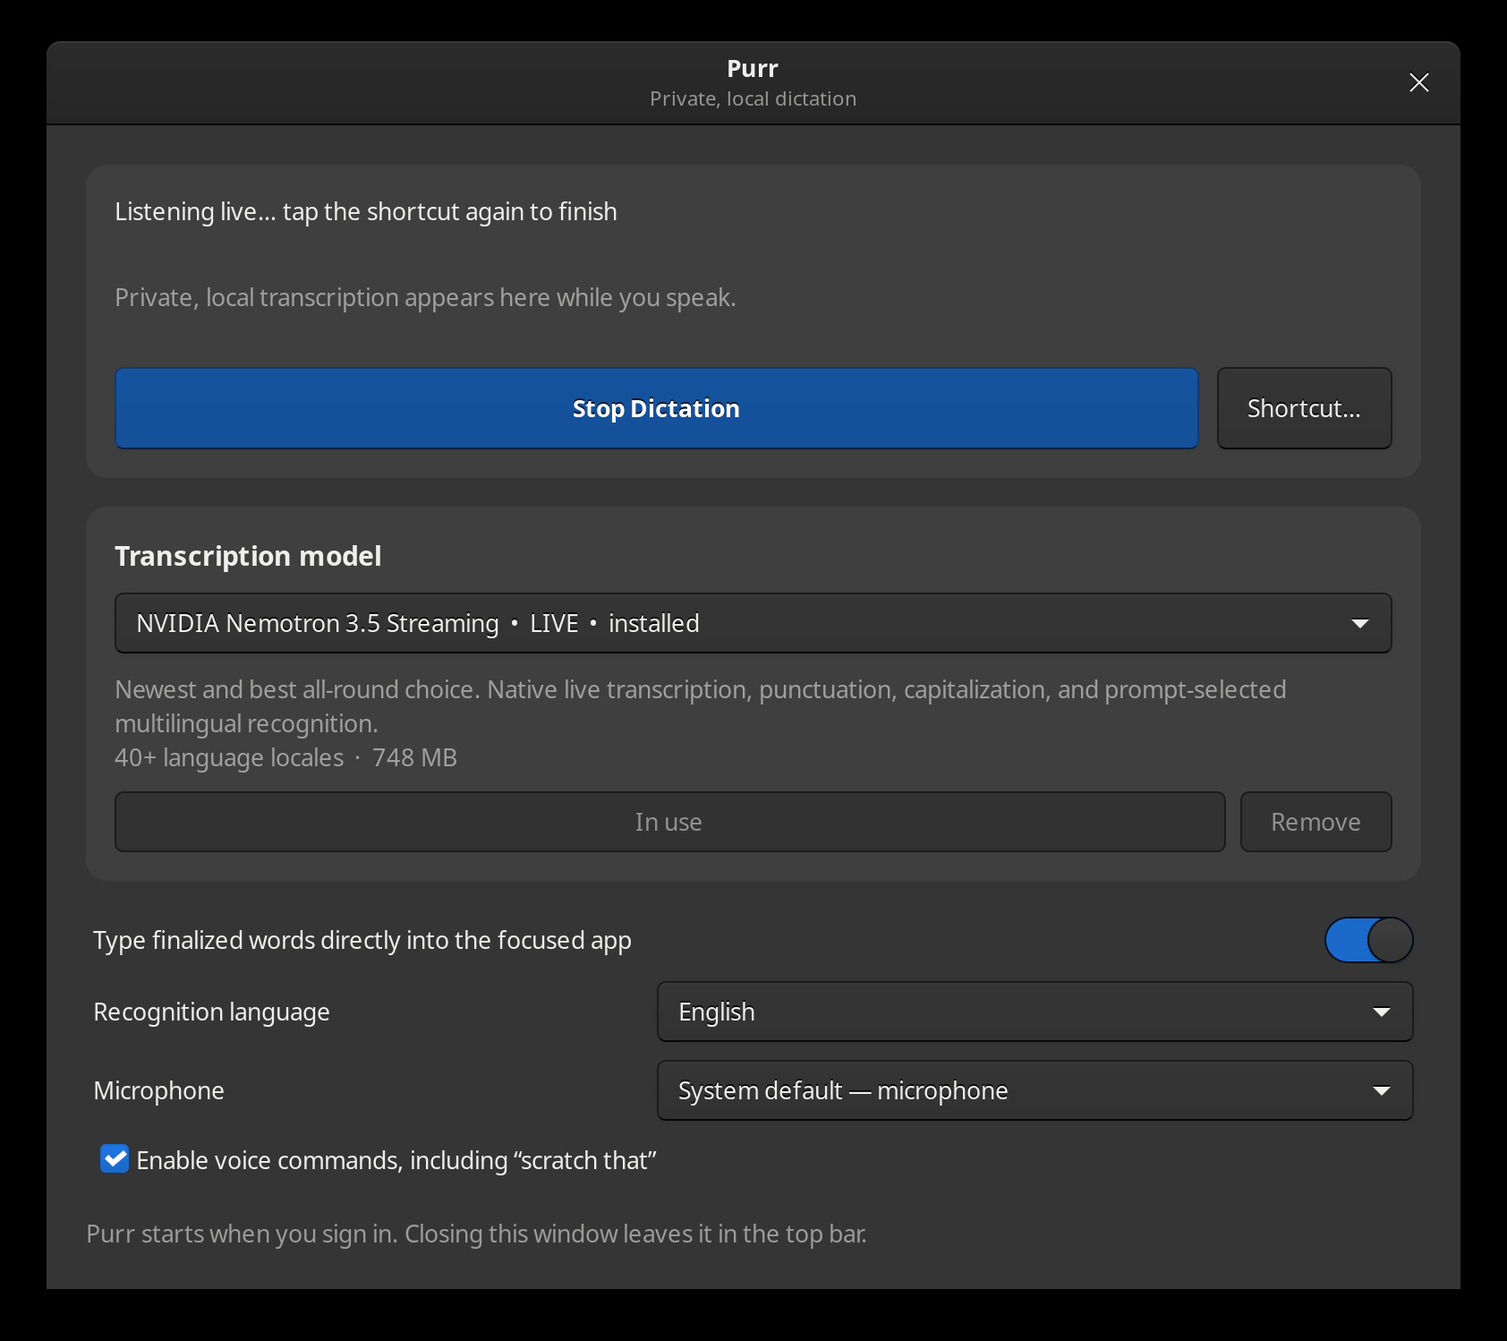
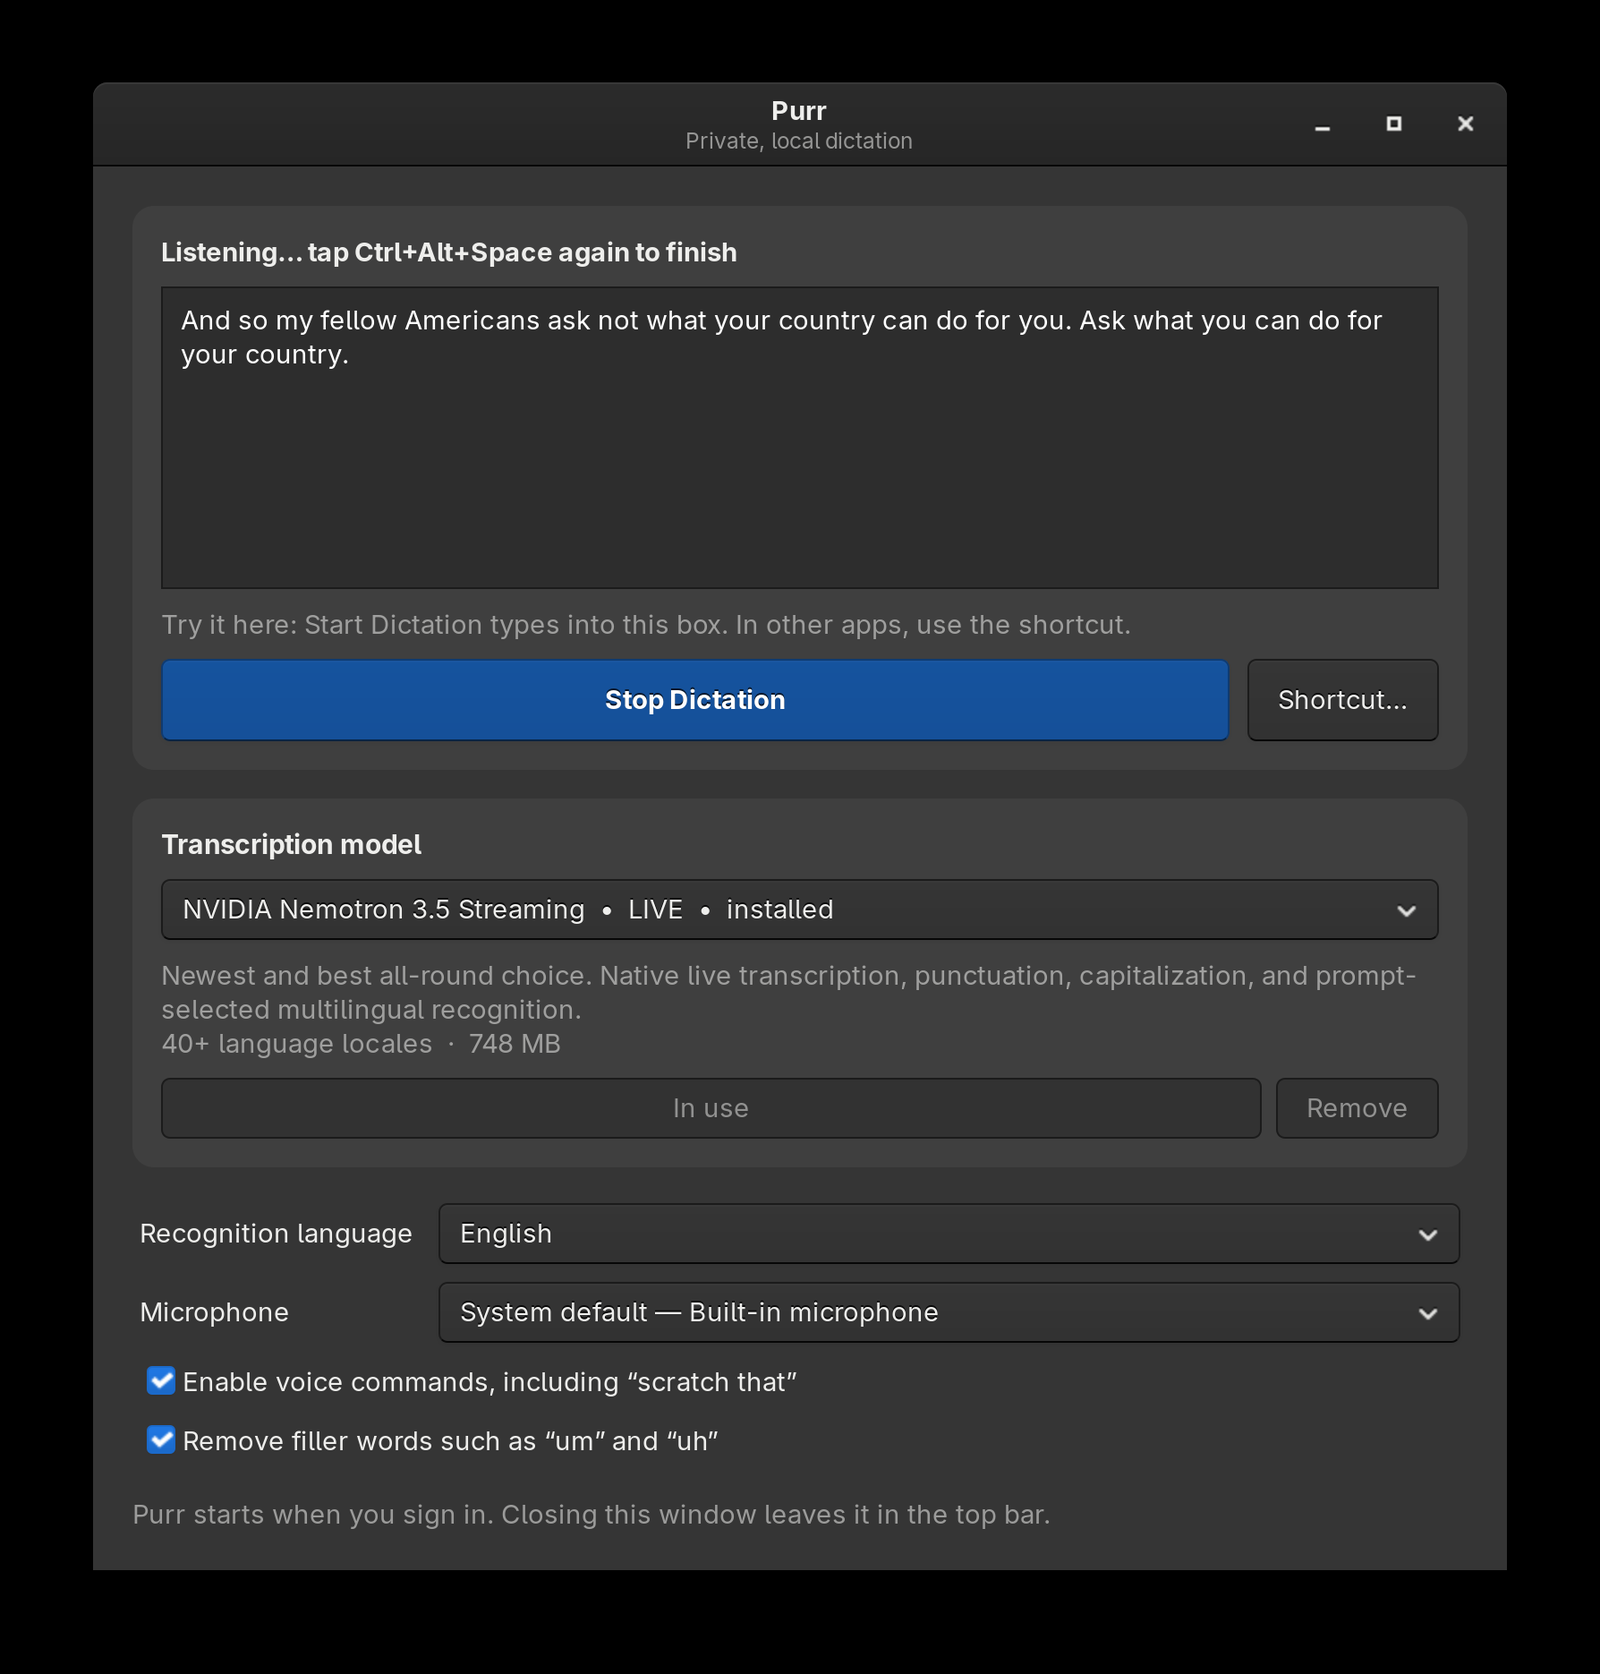
Add a practice box, filler toggle, and resilient microphone choice
Pass 2 of the Linux polish program.

- The window gets a practice text box. Start Dictation in the window types
  into it, and the buttons no longer take focus, so a dictated space or
  Enter can no longer press Stop Dictation.
- "No speech detected", "Too short", and "Removed <model>" are passing
  remarks that return to Ready instead of lingering as the status.
- Filler-word removal is a visible switch next to voice commands.
- The microphone list refreshes every time the window opens. An unplugged
  choice stays selected by its friendly name, marked "not connected",
  while recording falls back to the system default.
- Long device names ellipsize instead of widening the window.
- Screenshots re-rendered from the current window.

diff --git a/linux/purr_linux.py b/linux/purr_linux.py
@@ -27,7 +27,7 @@ import gi
 gi.require_version("Gtk", "3.0")
 gi.require_version("AyatanaAppIndicator3", "0.1")
 from gi.repository import AyatanaAppIndicator3 as AppIndicator
-from gi.repository import Gdk, Gio, GLib, Gtk
+from gi.repository import Gdk, Gio, GLib, Gtk, Pango
 
 from purr_models import (
     DEFAULT_MODEL_ID,
@@ -495,9 +495,10 @@ class PurrApplication(Gtk.Application):
         self.shortcut_guard = 0
         self.shortcut_pressed_at = 0.0
         self.window = self.overlay = None
-        self.status_label = self.last_label = self.overlay_label = None
+        self.status_label = self.practice = self.overlay_label = None
         self.record_button = self.model_combo = self.model_action = None
         self.microphone_combo = None
+        self.microphone_labels: dict[str, str] = {}
         self.model_remove = self.model_description = self.download_progress = None
         self.indicator = self.indicator_status = self.indicator_model = None
         self.indicator_dictate = None
@@ -529,9 +530,7 @@ class PurrApplication(Gtk.Application):
             # mapped Wayland toplevel takes focus away from the dictation target.
             self.background = False
             return
-        if not self.window:
-            self._build_window()
-        self.window.present()
+        self._show_window()
 
     @staticmethod
     def _install_css() -> None:
@@ -542,6 +541,7 @@ class PurrApplication(Gtk.Application):
             .purr-live label { color: white; font-size: 17px; }
             .purr-record { padding: 10px 22px; font-weight: bold; }
             .purr-model-title { font-weight: bold; font-size: 15px; }
+            .purr-status { font-weight: bold; }
         """)
         Gtk.StyleContext.add_provider_for_screen(
             Gdk.Screen.get_default(), provider, Gtk.STYLE_PROVIDER_PRIORITY_APPLICATION
@@ -594,21 +594,34 @@ class PurrApplication(Gtk.Application):
         # the current status instead of a stale placeholder.
         self.status_label = Gtk.Label(label=self.status_text, xalign=0)
         self.status_label.set_line_wrap(True)
+        self.status_label.get_style_context().add_class("purr-status")
         status_card.pack_start(self.status_label, False, False, 0)
-        self.last_label = Gtk.Label(
-            label="Your live transcript will appear here while you speak.", xalign=0
+        # Dictation started from this window types here. A real text field
+        # gives the typed keys a home and keeps focus off the buttons, where a
+        # typed space or Enter would press them.
+        self.practice = Gtk.TextView(
+            wrap_mode=Gtk.WrapMode.WORD_CHAR, left_margin=10, right_margin=10,
+            top_margin=8, bottom_margin=8,
         )
-        self.last_label.set_line_wrap(True)
-        self.last_label.set_selectable(True)
-        self.last_label.get_style_context().add_class("dim-label")
-        status_card.pack_start(self.last_label, True, True, 0)
+        practice_scroll = Gtk.ScrolledWindow(min_content_height=110)
+        practice_scroll.set_shadow_type(Gtk.ShadowType.IN)
+        practice_scroll.add(self.practice)
+        status_card.pack_start(practice_scroll, True, True, 0)
+        hint = Gtk.Label(
+            label="Try it here: Start Dictation types into this box. "
+            "In other apps, use the shortcut.",
+            xalign=0,
+        )
+        hint.set_line_wrap(True)
+        hint.get_style_context().add_class("dim-label")
+        status_card.pack_start(hint, False, False, 0)
         buttons = Gtk.Box(spacing=10)
-        self.record_button = Gtk.Button(label="Start Dictation")
+        self.record_button = Gtk.Button(label="Start Dictation", focus_on_click=False)
         self.record_button.get_style_context().add_class("suggested-action")
         self.record_button.get_style_context().add_class("purr-record")
-        self.record_button.connect("clicked", self._toggle_recording)
+        self.record_button.connect("clicked", self._record_button_clicked)
         buttons.pack_start(self.record_button, True, True, 0)
-        shortcut_button = Gtk.Button(label="Shortcut…")
+        shortcut_button = Gtk.Button(label="Shortcut…", focus_on_click=False)
         shortcut_button.connect(
             "clicked", lambda _button: self.shortcuts and self.shortcuts.configure()
         )
@@ -655,33 +668,26 @@ class PurrApplication(Gtk.Application):
             language.append(code, name)
         language.set_active_id(str(self.config.get("language", "en")))
         language.connect("changed", self._language_changed)
+        language.set_hexpand(True)
         options.attach(language, 1, 0, 1, 1)
         microphone_label = Gtk.Label(label="Microphone", xalign=0)
         options.attach(microphone_label, 0, 1, 1, 1)
         self.microphone_combo = Gtk.ComboBoxText()
-        microphones = list_microphones()
-        try:
-            current_default = subprocess.run(
-                ["pactl", "get-default-source"], capture_output=True, text=True,
-                timeout=2, check=True,
-            ).stdout.strip()
-        except Exception:
-            current_default = ""
-        default_label = next(
-            (label for name, label in microphones if name == current_default), "system choice"
-        )
-        self.microphone_combo.append("default", f"System default — {default_label}")
-        for name, label in microphones:
-            self.microphone_combo.append(name, label)
-        selected_microphone = str(self.config.get("microphone", "default"))
-        if not self.microphone_combo.set_active_id(selected_microphone):
-            self.microphone_combo.set_active_id("default")
+        for cell in self.microphone_combo.get_cells():
+            # Long device names must not widen the whole window.
+            cell.set_property("ellipsize", Pango.EllipsizeMode.END)
         self.microphone_combo.connect("changed", self._microphone_changed)
+        self._populate_microphones()
+        self.microphone_combo.set_hexpand(True)
         options.attach(self.microphone_combo, 1, 1, 1, 1)
         commands = Gtk.CheckButton(label='Enable voice commands, including “scratch that”')
         commands.set_active(bool(self.config.get("voice_commands", True)))
         commands.connect("toggled", self._commands_changed)
         options.attach(commands, 0, 2, 2, 1)
+        fillers = Gtk.CheckButton(label="Remove filler words such as “um” and “uh”")
+        fillers.set_active(bool(self.config.get("trim_fillers", True)))
+        fillers.connect("toggled", self._fillers_changed)
+        options.attach(fillers, 0, 3, 2, 1)
         outer.pack_start(options, False, False, 0)
 
         note = Gtk.Label(
@@ -693,8 +699,46 @@ class PurrApplication(Gtk.Application):
         self.window.add(outer)
         self.window.show_all()
         self.download_progress.hide()
+        self.practice.grab_focus()
         self._sync_record_controls()
         self._refresh_model_ui()
+
+    def _populate_microphones(self) -> None:
+        """(Re)list sources, so devices plugged in since the last look appear."""
+        combo = self.microphone_combo
+        microphones = list_microphones()
+        try:
+            current_default = subprocess.run(
+                ["pactl", "get-default-source"], capture_output=True, text=True,
+                timeout=2, check=True,
+            ).stdout.strip()
+        except Exception:
+            current_default = ""
+        default_label = next(
+            (label for name, label in microphones if name == current_default), "system choice"
+        )
+        selected = str(self.config.get("microphone", "default"))
+        self.microphone_labels = dict(microphones)
+        label = self.microphone_labels.get(selected)
+        if label and label != self.config.get("microphone_label"):
+            # Keep the remembered name current, so an unplugged choice is shown by name.
+            self.config["microphone_label"] = label
+            save_config(self.config)
+        # Repopulating emits "changed"; it must not rewrite the saved choice.
+        combo.handler_block_by_func(self._microphone_changed)
+        try:
+            combo.remove_all()
+            combo.append("default", f"System default — {default_label}")
+            for name, label in microphones:
+                combo.append(name, label)
+            if selected != "default" and selected not in {name for name, _ in microphones}:
+                # Keep an unplugged choice visible instead of silently replacing it;
+                # recording falls back to the system default until it returns.
+                label = str(self.config.get("microphone_label") or "Selected microphone")
+                combo.append(selected, f"{label} (not connected)")
+            combo.set_active_id(selected)
+        finally:
+            combo.handler_unblock_by_func(self._microphone_changed)
 
     def _build_overlay(self) -> None:
         self.overlay = Gtk.Window(type=Gtk.WindowType.TOPLEVEL)
@@ -739,7 +783,17 @@ class PurrApplication(Gtk.Application):
     def _show_window(self) -> None:
         if not self.window:
             self._build_window()
+        else:
+            self._populate_microphones()
         self.window.present()
+
+    def _record_button_clicked(self, _button) -> None:
+        if not self.recorder and self.practice:
+            # Dictation started here types into the practice area.
+            self.practice.grab_focus()
+            buffer = self.practice.get_buffer()
+            buffer.place_cursor(buffer.get_end_iter())
+        self._toggle_recording(None)
 
     def _toggle_recording(self, _button) -> None:
         self.stop_recording() if self.recorder else self.start_recording()
@@ -782,6 +836,17 @@ class PurrApplication(Gtk.Application):
             icon = "dialog-error-symbolic" if error else "audio-input-microphone-symbolic"
             self.indicator.set_icon_full(icon, text)
         return False
+
+    def _flash_status(self, text: str, milliseconds: int = 4000) -> None:
+        """Show a passing remark, then return to Ready unless something else happened."""
+        self._set_status(text)
+
+        def restore():
+            if self.status_text == text and self.ready and not self.busy and not self.recorder:
+                self._show_ready()
+            return False
+
+        GLib.timeout_add(milliseconds, restore)
 
     def _sync_record_controls(self) -> None:
         label = "Stop Dictation" if self.recorder else "Start Dictation"
@@ -1009,8 +1074,6 @@ class PurrApplication(Gtk.Application):
         preview = transcript_preview(text) or ("End of utterance…" if eou else "Listening…")
         if self.overlay_label:
             self.overlay_label.set_text(preview)
-        if self.last_label:
-            self.last_label.set_text(transcript_preview(text) or "Listening…")
         if not self.shortcut_down:
             self._apply_stream_typing(text, drop_previous)
         return False
@@ -1066,8 +1129,6 @@ class PurrApplication(Gtk.Application):
         if text and self.keyboard and not text.endswith("\n"):
             self.keyboard.type_text(" ")
         self._complete("", 0, None)
-        if self.last_label and text:
-            self.last_label.set_text(transcript_preview(text))
         GLib.timeout_add(700, self._hide_overlay)
         return False
 
@@ -1108,8 +1169,10 @@ class PurrApplication(Gtk.Application):
         self._sync_record_controls()
         if message:
             self._hide_overlay()
-            self._set_status(message, message.startswith(("No microphone", "Transcription", "Could not")))
-            if message not in ("No speech detected", "Too short — speak for a moment before stopping"):
+            if message in ("No speech detected", "Too short — speak for a moment before stopping"):
+                self._flash_status(message)
+            else:
+                self._set_status(message, message.startswith(("No microphone", "Transcription", "Could not")))
                 self._notify("Purr dictation failed", message)
             return False
         if drop_previous and self.keyboard:
@@ -1118,8 +1181,6 @@ class PurrApplication(Gtk.Application):
             insertion = text if text.endswith(("\n", "\t", " ")) else text + " "
             if self.keyboard:
                 self.keyboard.type_text(insertion)
-            if self.last_label:
-                self.last_label.set_text(transcript_preview(text))
         self._show_ready()
         return False
 
@@ -1232,7 +1293,7 @@ class PurrApplication(Gtk.Application):
         selected = self._selected_model()
         try:
             self.store.remove(selected)
-            self._set_status(f"Removed {selected.name}")
+            self._flash_status(f"Removed {selected.name}")
         except Exception as error:
             self._set_status(str(error), True)
         self._populate_model_combo(selected.id)
@@ -1244,9 +1305,18 @@ class PurrApplication(Gtk.Application):
             save_config(self.config)
 
     def _microphone_changed(self, combo) -> None:
-        if combo.get_active_id():
-            self.config["microphone"] = combo.get_active_id()
+        selected = combo.get_active_id()
+        if selected:
+            self.config["microphone"] = selected
+            # Remembered so an unplugged choice can still be shown by name. The
+            # "(not connected)" entry itself is not a name worth remembering.
+            if selected in self.microphone_labels:
+                self.config["microphone_label"] = self.microphone_labels[selected]
             save_config(self.config)
+
+    def _fillers_changed(self, button) -> None:
+        self.config["trim_fillers"] = button.get_active()
+        save_config(self.config)
 
     def _commands_changed(self, button) -> None:
         self.config["voice_commands"] = button.get_active()

diff --git a/linux/test_purr_linux.py b/linux/test_purr_linux.py
@@ -20,6 +20,7 @@ os.environ["XDG_CONFIG_HOME"] = os.path.join(SANDBOX, "config")
 from gi.repository import GLib
 
 import purr_linux
+from purr_linux import Gtk
 from purr_linux import (
     PostProcessor,
     PurrApplication,
@@ -250,6 +251,57 @@ class LinuxIntegrationTests(unittest.TestCase):
         app._server_ready()
         self.assertIn("uinput", app.status_text)
         self.assertTrue(app.status_error)
+
+    def test_passing_remarks_return_to_ready(self):
+        app = live_app(ScreenKeyboard())
+        app._shortcut_changed("<Control><Alt>space")
+        app._flash_status("No speech detected", 50)
+        self.assertEqual(app.status_text, "No speech detected")
+        run_main_loop(0.2)
+        self.assertTrue(app.status_text.startswith("Ready — tap Ctrl+Alt+Space"))
+
+    def test_passing_remark_never_hides_a_newer_status(self):
+        app = live_app(ScreenKeyboard())
+        app._flash_status("Removed a model", 50)
+        app._set_status("Listening…")
+        run_main_loop(0.2)
+        self.assertEqual(app.status_text, "Listening…")
+
+    def test_filler_toggle_applies_to_the_next_words(self):
+        app = live_app(ScreenKeyboard())
+        self.assertEqual(app.processor.apply("um hello")[0], "hello")
+        app._fillers_changed(mock.Mock(get_active=lambda: False))
+        self.assertEqual(app.processor.apply("um hello")[0], "um hello")
+        self.assertFalse(json.loads(purr_linux.CONFIG_FILE.read_text())["trim_fillers"])
+
+    def test_unplugged_microphone_stays_selected_by_name(self):
+        app = live_app(ScreenKeyboard())
+        app.microphone_combo = Gtk.ComboBoxText()
+        app.microphone_combo.connect("changed", app._microphone_changed)
+        yeti = ("alsa_input.usb-yeti", "Yeti Stereo Microphone")
+
+        def populate(microphones):
+            with mock.patch.object(purr_linux, "list_microphones", return_value=microphones), \
+                    mock.patch.object(purr_linux.subprocess, "run", side_effect=OSError):
+                app._populate_microphones()
+
+        populate([yeti])
+        app.microphone_combo.set_active_id(yeti[0])
+        populate([])
+        self.assertEqual(app.microphone_combo.get_active_id(), yeti[0])
+        self.assertEqual(
+            app.microphone_combo.get_active_text(), "Yeti Stereo Microphone (not connected)"
+        )
+        # Re-choosing the unplugged entry must not remember the suffix as its name.
+        app.microphone_combo.set_active_id("default")
+        app.microphone_combo.set_active_id(yeti[0])
+        populate([])
+        self.assertEqual(
+            app.microphone_combo.get_active_text(), "Yeti Stereo Microphone (not connected)"
+        )
+        saved = json.loads(purr_linux.CONFIG_FILE.read_text())
+        self.assertEqual(saved["microphone"], yeti[0])
+        self.assertEqual(saved["microphone_label"], "Yeti Stereo Microphone")
 
     def test_tests_never_touch_the_real_log_or_config(self):
         self.assertTrue(str(purr_linux.STATE).startswith(SANDBOX))

diff --git a/LINUX.md b/LINUX.md
@@ -123,10 +123,19 @@ still finishing, or the engine failed), the tap shows a notification explaining
 why instead of doing nothing. The top-bar menu's **Start Dictation** item
 switches to **Stop Dictation** while Purr is listening.
 
+The Purr window has a practice box: **Start Dictation** in the window types
+into it, so you can try dictation, voice commands, and microphones without
+touching another app.
+
 Click **Shortcut…** in Purr to open GNOME's keyboard settings. Purr preserves a
 shortcut changed there and shows the new one immediately. All text is typed
 through Purr's virtual keyboard; Purr never reads or writes the clipboard.
 Optional model downloads continue in the background while you dictate.
+
+The microphone list refreshes each time the window opens, so newly connected
+devices appear without restarting Purr. A chosen microphone that is unplugged
+stays selected (marked “not connected”) and Purr records from the system
+default until it returns.
 
 Spoken commands include “new paragraph,” “new line,” punctuation names, and
 “scratch that.” The last command removes the preceding dictated word, including
@@ -188,6 +197,7 @@ The GUI writes `~/.config/purr/config.json`. Supported keys are:
 - `model`: a model ID from `linux/purr_models.py`
 - `language`: recognition language code or `auto`
 - `microphone`: PipeWire/Pulse source name or `default`
+- `microphone_label`: friendly name of that source, shown while it is unplugged
 - `trim_fillers`: remove common fillers such as “um” and “uh”
 - `voice_commands`: enable spoken punctuation and “scratch that”
 - `dictionary`: JSON object mapping spoken forms to replacements

diff --git a/README.md b/README.md
@@ -146,7 +146,8 @@ GUI can download, select, and remove these additional local models:
 - Whisper Large V3 Turbo (broad-language compatibility fallback)
 
 Purr starts automatically on sign-in and keeps running in the top bar when its
-window is closed. See [the Linux guide](LINUX.md) for prerequisites, model
+window is closed. The window includes a practice box for trying dictation, plus
+switches for voice commands and filler-word removal. See [the Linux guide](LINUX.md) for prerequisites, model
 sizes, settings, local files, update/uninstall steps, architecture, and common
 failure modes.
 
